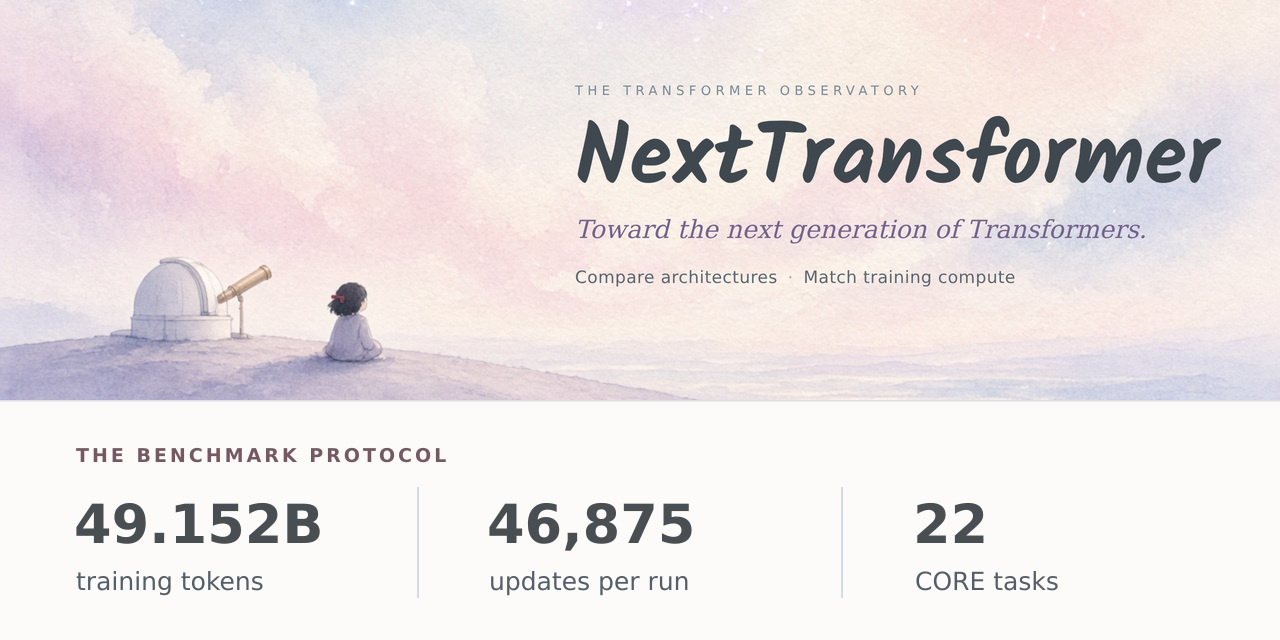
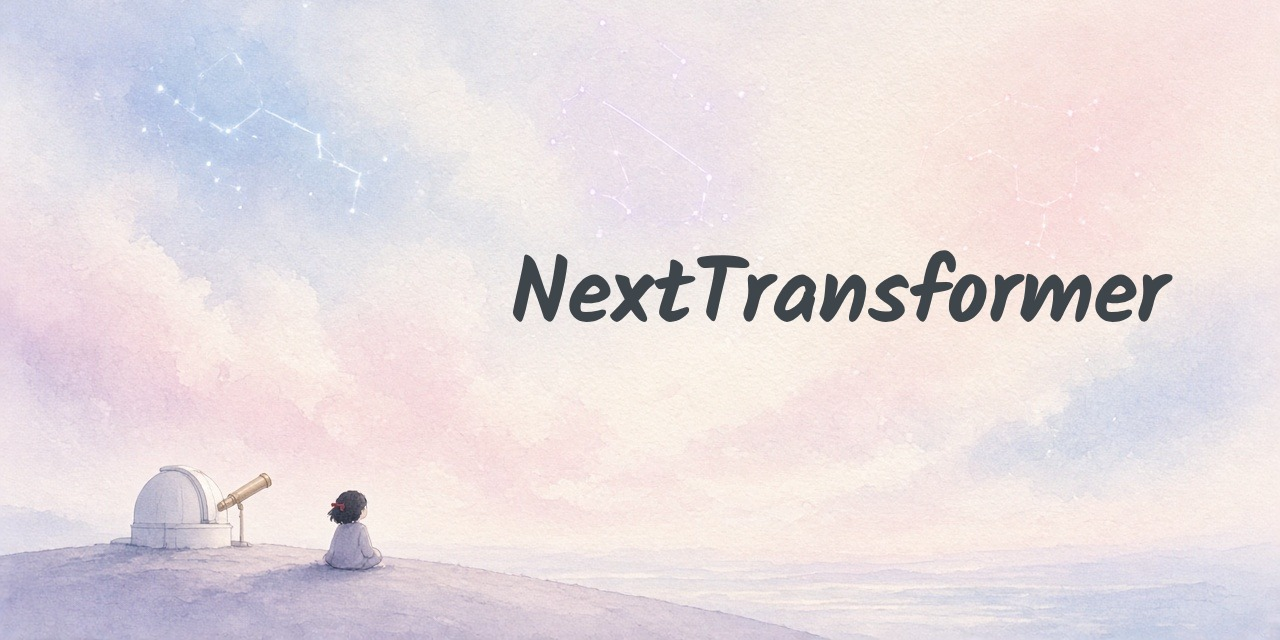
Refresh website sharing metadata and simplify the observatory preview

diff --git a/website/index.html b/website/index.html
@@ -3,17 +3,23 @@
   <head>
     <meta charset="UTF-8" />
     <meta name="viewport" content="width=device-width, initial-scale=1.0" />
-    <title>NextTransformer · Training Observatory</title>
-    <meta name="description" content="An open observatory of next-generation Transformer architectures trained under one fixed protocol: learning curves, leaderboard, CORE benchmarks and an architecture atlas." />
+    <title>NextTransformer · Dense and MoE Benchmarks</title>
+    <meta name="description" content="Compare Transformer architectures within each Dense or MoE training budget. Explore learning curves, benchmark results and downloadable checkpoints." />
     <link rel="icon" href="/favicon.svg" type="image/svg+xml" />
     <meta property="og:type" content="website" />
-    <meta property="og:title" content="NextTransformer · Training Observatory" />
-    <meta property="og:description" content="Toward the next generation of Transformers, compared under one fixed training budget." />
-    <meta property="og:image" content="https://interactive-active-ai.github.io/NextTransformer/brand/social-preview.jpg" />
+    <meta property="og:url" content="https://interactive-active-ai.github.io/NextTransformer/" />
+    <meta property="og:title" content="NextTransformer · Dense and MoE Benchmarks" />
+    <meta property="og:description" content="Compare Transformer architectures within each Dense or MoE training budget. Explore learning curves, benchmark results and downloadable checkpoints." />
+    <meta property="og:image" content="https://interactive-active-ai.github.io/NextTransformer/brand/social-preview.jpg?v=observatory-2" />
+    <meta property="og:image:type" content="image/jpeg" />
     <meta property="og:image:width" content="1280" />
     <meta property="og:image:height" content="640" />
-    <meta property="og:image:alt" content="NextTransformer. Each run uses 49.152B training tokens, 46,875 updates and 22 CORE tasks." />
+    <meta property="og:image:alt" content="NextTransformer above a watercolor observatory under a pastel sky." />
     <meta name="twitter:card" content="summary_large_image" />
+    <meta name="twitter:title" content="NextTransformer · Dense and MoE Benchmarks" />
+    <meta name="twitter:description" content="Compare Transformer architectures within each Dense or MoE training budget. Explore learning curves, benchmark results and downloadable checkpoints." />
+    <meta name="twitter:image" content="https://interactive-active-ai.github.io/NextTransformer/brand/social-preview.jpg?v=observatory-2" />
+    <meta name="twitter:image:alt" content="NextTransformer above a watercolor observatory under a pastel sky." />
   </head>
   <body class="antialiased">
     <div id="root"></div>
